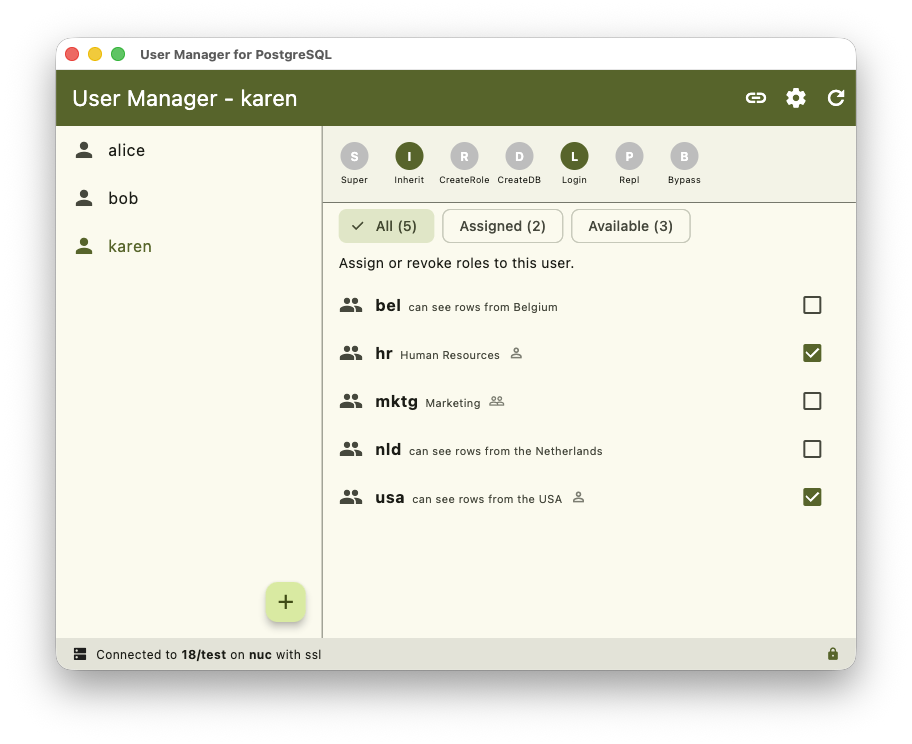
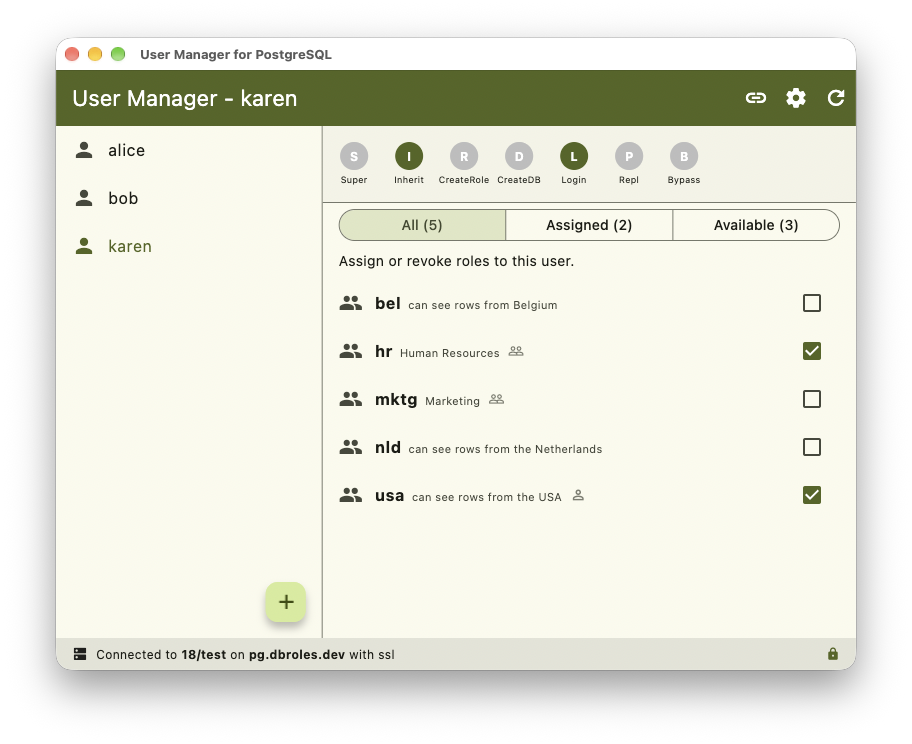
clean up of README.md

diff --git a/README.md b/README.md
@@ -1,6 +1,10 @@
 # User Manager for PostgreSQL
-![Main Screen](assets/main_screen_macos.png)
+![Main Screen](assets/main_screen.png)
 
+## Three steps to get started:
+1. **Connect** to a PostgreSQL server
+2. **Select** a user
+3. **Grant** privileges (or **revoke**)
 
 ## TLDR;
 If you are a DBA or software developer this app is for you.  
@@ -19,178 +23,6 @@ When you work for a middle to large size organization this can take up a lot of 
 You don't care if Karen is hired to work in Human Resources.  
 That is something that the Helpdesk person can handle by using this app.
 
-## Users, Groups and Roles
-```
-Although technically correct, the explanation below is an oversimplification of the reality of PostgreSQL roles.
-More information can be found here: https://www.postgresql.org/docs/current/user-manag.html
-```
-
-PostgreSQL does not have **users** or **groups**.  
-Instead, it uses the concept of **roles**, which have attributes and privileges and can be granted to other roles.
-
-PostgreSQL prevents circular inheritance of roles. If role A inherits role B, and role B inherits role A, then PostgreSQL will throw an error.
-
-The following things can be assigned to roles:
-
-### 1. Role Attributes, Constraints and Security Labels
-
-Each role has eight attributes:
-- Superuser
-- Inherit
-- Create Role
-- Create DB
-- Login
-- Replication
-- Bypass RLS
-- Password
-
-When a user is selected on the left side of the screen, his attributes are shown on the right side of the screen:  
-![Login Attributes](assets/attributes.png)  
-Of course green means set and grey means not set.  
-
-The `Login` attribute determines if a role can log in to the database.  This is the difference between a "user" and a "group":
-- If `Login` is true, it is a **user** and appears on the **left**
-- If `Login` is false, it is a **group** and appears on the **right**
-
-From here on, I will use the words `user` and `group` depending on whether the role has the **Login** attribute set to true or false.
-
-Attributes are **not** inherited by child roles. If a group called `DBAs` has the Superuser attribute set to **true**, members of that group are **not** superusers. If the `SET` option is true they can become Superuser however, see the section on [Granting](Granting).
-
-Roles can have constraints by setting a CONNECTION LIMIT or a VALID UNTIL attribute.  
-Roles can have security labels (MAC/SELinux) by applying a SECURITY LABEL or COMMENT to the role.
-
-### 2. Object-Level Privileges
-There are many different privileges on many different objects.  
-The most important ones are:
-- SELECT
-- INSERT
-- UPDATE
-- DELETE
-
-These privileges **are** inherited.  
-So if a group called `hr` can SELECT, INSERT and UPDATE on table `hr.persons` then
-any user that is a member of `hr` can also SELECT, INSERT and UPDATE on `hr.persons`.
-
-Many organizations use this feature to create a system where privileges are granted to groups and users become members of these groups.
-Thereby inheriting the privileges of the groups.
-
-Access privileges can be **GRANT**ed and **REVOKE**d on roles for: tables (or [materialized] views), columns, sequences, databases, domains, foreign data wrappers, servers, routines, languages, large objects, configuration parameters, schemas, tablespaces, types and other roles. [*grant*](https://www.postgresql.org/docs/current/sql-grant.html) / [*revoke*](https://www.postgresql.org/docs/current/sql-revoke.html)
-
-<!--
-### 03. RLS Policies
-```sql
-CREATE POLICY policy_name ON table_name 
-TO role_name [, ...] 
-USING (...) WITH CHECK (...);
-```
-Policies can also be assigned to roles.
-They can be permissive or restrictive.
-
-
-### 04. Runtime Configuration Settings (GUC Parameters)
-
-
-### 05. Predefined System Roles
-
-
-### 06. Object Ownership
-Objects have owners. The owner of an object has all privileges on that object.
--->
-## Granting
-When you grant a group to a user, for example: `grant hr to karen;`
-You have three options:
-- ADMIN; the user will be able to grant this privilege to other users. Or drop the `hr` role altogether.
-- INHERIT; the user can SELECT, UPDATE, INSERT and DELETE any object that the `hr` group can access.
-- SET; the user can use the attributes of the `hr` group. Such as BYPASSRLS by using `set role hr`
-
-Role attributes (SUPERUSER, INHERIT, BYPASSRLS etc.) are not inherited. They can only be obtained by switching to that role using `set role <role_name>`. This program uses the default values from PostgreSQL; ADMIN=false, INHERIT=true, SET=true.
-
-## Extra
-If you are going to make a login a member of a role, for example: `grant hr to karen;`
-Then you must have ADMIN rights on hr. Not per se on karen.
-
-The query to select the users is:
-```sql
-WITH me AS (
-    SELECT 
-        current_setting('is_superuser') = 'on' AS is_super,
-        rolcreaterole AS can_create
-    FROM pg_catalog.pg_roles
-    WHERE rolname = CURRENT_USER
-),
-user_roles AS (
-    SELECT
-        r.oid::int,
-        r.rolname AS name,
-        r.rolsuper AS is_superuser,
-        r.rolinherit AS inherit,
-        r.rolcreaterole AS create_role,
-        r.rolcreatedb AS create_db,
-        r.rolcanlogin AS can_login,
-        r.rolreplication AS replication,
-        r.rolbypassrls AS bypass_rls,
-        (CURRENT_USER = r.rolname) AS is_current,
-        pg_catalog.shobj_description(r.oid, 'pg_authid') AS description,
-        (
-            me.is_super
-            OR EXISTS (
-                SELECT 1 FROM pg_catalog.pg_auth_members m
-                WHERE m.roleid = r.oid
-                  AND m.member = CURRENT_USER::regrole::oid
-                  AND m.admin_option = true
-            )
-        ) AS is_admin,
-        me.is_super,
-        me.can_create
-    FROM pg_catalog.pg_roles r
-    CROSS JOIN me
-    WHERE r.rolcanlogin
-)
-SELECT
-    oid,
-    name,
-    is_superuser,
-    inherit,
-    create_role,
-    create_db,
-    can_login,
-    replication,
-    bypass_rls,
-    is_current,
-    description,
-    is_admin,
-    (is_admin AND (is_super OR can_create)) AS can_drop
-FROM user_roles
-ORDER BY name ASC;
-```
-
-The query to select the groups of a user is:
-```sql
-SELECT 
-    g.oid::int,
-    g.rolname AS name,
-    pg_catalog.shobj_description(g.oid, 'pg_authid') AS description,
-    COALESCE(
-        array_agg(m.grantor::regrole::text ORDER BY m.grantor::regrole::text) 
-        FILTER (WHERE m.grantor IS NOT NULL AND m.grantor <> CURRENT_USER::regrole::oid),
-        '{}'::text[]
-    ) AS grantors,
-    (COALESCE(bool_or(me.admin_option), false) OR current_setting('is_superuser') = 'on') AS grantable,
-    COALESCE(bool_or(m.grantor = CURRENT_USER::regrole::oid), false) AS granted
-FROM pg_catalog.pg_roles g
-LEFT JOIN pg_catalog.pg_auth_members m
-    ON g.oid = m.roleid
-   AND m.member = $1::oid
-LEFT JOIN pg_catalog.pg_auth_members me
-    ON g.oid = me.roleid
-   AND me.member = CURRENT_USER::regrole::oid
-   AND me.admin_option = true
-WHERE NOT g.rolcanlogin
-GROUP BY g.oid, g.rolname
-ORDER BY g.rolname;
-```
-
----
 
 ## Requirements
 

diff --git a/ROLES.md b/ROLES.md
@@ -1,0 +1,172 @@
+## Users, Groups and Roles
+```
+Although technically correct, the explanation below is an oversimplification of the reality of PostgreSQL roles.
+More information can be found here: https://www.postgresql.org/docs/current/user-manag.html
+```
+
+PostgreSQL does not have **users** or **groups**.  
+Instead, it uses the concept of **roles**, which have attributes and privileges and can be granted to other roles.
+
+PostgreSQL prevents circular inheritance of roles. If role A inherits role B, and role B inherits role A, then PostgreSQL will throw an error.
+
+The following things can be assigned to roles:
+
+### 1. Role Attributes, Constraints and Security Labels
+
+Each role has eight attributes:
+- Superuser
+- Inherit
+- Create Role
+- Create DB
+- Login
+- Replication
+- Bypass RLS
+- Password
+
+When a user is selected on the left side of the screen, his attributes are shown on the right side of the screen:  
+![Login Attributes](assets/attributes.png)  
+Of course green means set and grey means not set.
+
+The `Login` attribute determines if a role can log in to the database.  This is the difference between a "user" and a "group":
+- If `Login` is true, it is a **user** and appears on the **left**
+- If `Login` is false, it is a **group** and appears on the **right**
+
+From here on, I will use the words `user` and `group` depending on whether the role has the **Login** attribute set to true or false.
+
+Attributes are **not** inherited by child roles. If a group called `DBAs` has the Superuser attribute set to **true**, members of that group are **not** superusers. If the `SET` option is true they can become Superuser however, see the section on [Granting](Granting).
+
+Roles can have constraints by setting a CONNECTION LIMIT or a VALID UNTIL attribute.  
+Roles can have security labels (MAC/SELinux) by applying a SECURITY LABEL or COMMENT to the role.
+
+### 2. Object-Level Privileges
+There are many different privileges on many different objects.  
+The most important ones are:
+- SELECT
+- INSERT
+- UPDATE
+- DELETE
+
+These privileges **are** inherited.  
+So if a group called `hr` can SELECT, INSERT and UPDATE on table `hr.persons` then
+any user that is a member of `hr` can also SELECT, INSERT and UPDATE on `hr.persons`.
+
+Many organizations use this feature to create a system where privileges are granted to groups and users become members of these groups.
+Thereby inheriting the privileges of the groups.
+
+Access privileges can be **GRANT**ed and **REVOKE**d on roles for: tables (or [materialized] views), columns, sequences, databases, domains, foreign data wrappers, servers, routines, languages, large objects, configuration parameters, schemas, tablespaces, types and other roles. [*grant*](https://www.postgresql.org/docs/current/sql-grant.html) / [*revoke*](https://www.postgresql.org/docs/current/sql-revoke.html)
+
+<!--
+### 03. RLS Policies
+```sql
+CREATE POLICY policy_name ON table_name 
+TO role_name [, ...] 
+USING (...) WITH CHECK (...);
+```
+Policies can also be assigned to roles.
+They can be permissive or restrictive.
+
+
+### 04. Runtime Configuration Settings (GUC Parameters)
+
+
+### 05. Predefined System Roles
+
+
+### 06. Object Ownership
+Objects have owners. The owner of an object has all privileges on that object.
+-->
+## Granting
+When you grant a group to a user, for example: `grant hr to karen;`
+You have three options:
+- ADMIN; the user will be able to grant this privilege to other users. Or drop the `hr` role altogether.
+- INHERIT; the user can SELECT, UPDATE, INSERT and DELETE any object that the `hr` group can access.
+- SET; the user can use the attributes of the `hr` group. Such as BYPASSRLS by using `set role hr`
+
+Role attributes (SUPERUSER, INHERIT, BYPASSRLS etc.) are not inherited. They can only be obtained by switching to that role using `set role <role_name>`. This program uses the default values from PostgreSQL; ADMIN=false, INHERIT=true, SET=true.
+
+## Extra
+If you are going to make a login a member of a role, for example: `grant hr to karen;`
+Then you must have ADMIN rights on hr. Not per se on karen.
+
+The query to select the users is:
+```sql
+WITH me AS (
+    SELECT 
+        current_setting('is_superuser') = 'on' AS is_super,
+        rolcreaterole AS can_create
+    FROM pg_catalog.pg_roles
+    WHERE rolname = CURRENT_USER
+),
+user_roles AS (
+    SELECT
+        r.oid::int,
+        r.rolname AS name,
+        r.rolsuper AS is_superuser,
+        r.rolinherit AS inherit,
+        r.rolcreaterole AS create_role,
+        r.rolcreatedb AS create_db,
+        r.rolcanlogin AS can_login,
+        r.rolreplication AS replication,
+        r.rolbypassrls AS bypass_rls,
+        (CURRENT_USER = r.rolname) AS is_current,
+        pg_catalog.shobj_description(r.oid, 'pg_authid') AS description,
+        (
+            me.is_super
+            OR EXISTS (
+                SELECT 1 FROM pg_catalog.pg_auth_members m
+                WHERE m.roleid = r.oid
+                  AND m.member = CURRENT_USER::regrole::oid
+                  AND m.admin_option = true
+            )
+        ) AS is_admin,
+        me.is_super,
+        me.can_create
+    FROM pg_catalog.pg_roles r
+    CROSS JOIN me
+    WHERE r.rolcanlogin
+)
+SELECT
+    oid,
+    name,
+    is_superuser,
+    inherit,
+    create_role,
+    create_db,
+    can_login,
+    replication,
+    bypass_rls,
+    is_current,
+    description,
+    is_admin,
+    (is_admin AND (is_super OR can_create)) AS can_drop
+FROM user_roles
+ORDER BY name ASC;
+```
+
+The query to select the groups of a user is:
+```sql
+SELECT 
+    g.oid::int,
+    g.rolname AS name,
+    pg_catalog.shobj_description(g.oid, 'pg_authid') AS description,
+    COALESCE(
+        array_agg(m.grantor::regrole::text ORDER BY m.grantor::regrole::text) 
+        FILTER (WHERE m.grantor IS NOT NULL AND m.grantor <> CURRENT_USER::regrole::oid),
+        '{}'::text[]
+    ) AS grantors,
+    (COALESCE(bool_or(me.admin_option), false) OR current_setting('is_superuser') = 'on') AS grantable,
+    COALESCE(bool_or(m.grantor = CURRENT_USER::regrole::oid), false) AS granted
+FROM pg_catalog.pg_roles g
+LEFT JOIN pg_catalog.pg_auth_members m
+    ON g.oid = m.roleid
+   AND m.member = $1::oid
+LEFT JOIN pg_catalog.pg_auth_members me
+    ON g.oid = me.roleid
+   AND me.member = CURRENT_USER::regrole::oid
+   AND me.admin_option = true
+WHERE NOT g.rolcanlogin
+GROUP BY g.oid, g.rolname
+ORDER BY g.rolname;
+```
+
+---
